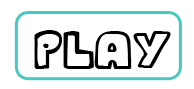
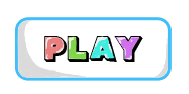
New play button, added score counter

diff --git a/game.js b/game.js
@@ -6,22 +6,17 @@ CLOUD_NUM = 6;
 SKY_BG_SPEED = 0.5;
 
 window.onload = function () {
-	
-
 
     //start crafty
     Crafty.init(STAGE_WIDTH, STAGE_HEIGHT);
-    //Crafty.canvas.init();
-    
-    
-    
+    //Crafty.canvas.init();    
     
     //LOADING SCENE
 	//the loading screen that will display while our assets load
 	Crafty.scene("loading", function () {
 		//load takes an array of assets and a callback when complete
 		Crafty.load(["imgs/bullet.png","imgs/cloud1.png",
-		"imgs/forky_ss.png", "imgs/burger_sheet.png", "imgs/main_title.png","imgs/play_button.png",
+		"imgs/forky_ss.png", "imgs/burger_sheet.png", "imgs/main_title.png","imgs/play_button.png", "imgs/play_button_on.png",
 		"imgs/fireball.png", "imgs/minifork.png", "imgs/bacon2.png", "imgs/peppermint.png",
 		"imgs/onion_ss.png", "imgs/egg_ss.png", "imgs/sky_bg.png"], function () {
 			Crafty.scene("title"); //when everything is loaded, run the main scene
@@ -45,6 +40,12 @@ window.onload = function () {
 		Crafty.e("2D, DOM, Image, Mouse").attr({ x: 0, y: 350, z:10 })
 					.image("imgs/play_button.png")
 					.css({ "cursor": "pointer" })
+					.bind('MouseOver', function() {
+						this.image("imgs/play_button_on.png");
+					})
+					.bind('MouseOut', function() {
+						this.image("imgs/play_button.png");
+					})
 					.bind('Click', function () {
 						Crafty.scene("main");
 					});
@@ -53,7 +54,7 @@ window.onload = function () {
 		generateClouds();
 					
 	});
-
+	
 	Crafty.sprite(76, 173, "imgs/forky_ss.png", {forkysprite:[0,0]});
 	Crafty.sprite(20, 80, "imgs/bacon2.png", {firebacon:[0,0]});
 	Crafty.sprite(120, "imgs/burger_sheet.png", {burg:[0,0]});
@@ -74,84 +75,96 @@ window.onload = function () {
 		
 		powerUpGen = Crafty.e("PowerupFactory, RealDelay");
 			powerUpGen.realDelay(spawnPowerup, Crafty.math.randomInt(1000,5000));
+			
+		gameScore = 0;
+		gameScoreTxt = 0;
+		scoreTxt = Crafty.e("Score, 2D, DOM, Text").attr({x: 10, y: STAGE_HEIGHT-50, w: 300, z:20})
+						.textFont({family: 'Impact', size: '24px'})
+						.textColor('#000000')
+						.bind("EnterFrame", function () {
+							if (gameScore > gameScoreTxt) {
+								if (gameScore - gameScoreTxt > 10)
+									gameScoreTxt += 10;
+								else 
+									gameScoreTxt += (gameScore - gameScoreTxt);
+								
+								this.text("Score: " + gameScoreTxt);
+							}
+						});
 	});
-	
-	
-	
-	/*****************
-		Helper functions
-	*****************/
-	function sky() {
-		Crafty.e("2D, DOM, Image")
-			.attr({x:0, y:0, z:0})
-			.image("imgs/sky_bg.png")
-			.bind("EnterFrame", function() {
-				this.y += SKY_BG_SPEED;
-				if (this.y > STAGE_HEIGHT)
-					this.y = -639;
-			});
-		Crafty.e("2D, DOM, Image")
-			.attr({x:0, y:-647, z:0})
-			.image("imgs/sky_bg.png")
-			.bind("EnterFrame", function() {
-				this.y += SKY_BG_SPEED;
-				if (this.y > STAGE_HEIGHT)
-					this.y = -639;
-			});
-	}
-	
-	function generateClouds() {
-		for (var cloud=0; cloud < CLOUD_NUM; cloud++) {		
-				Crafty.e("2D, DOM, Image")
-					.attr({ x: Crafty.math.randomInt(-50, STAGE_WIDTH+50), y: Crafty.math.randomInt(-300, -50), z: 2 })
-					.image("imgs/cloud1.png")
-					.bind('EnterFrame', function () {
-						this.y += 2;
-						if (this.y > STAGE_HEIGHT) {
-							this.y = Crafty.math.randomInt(-300, -50);
-							this.x = Crafty.math.randomInt(-50, STAGE_WIDTH+50);
-						}
-					});
-		}
-	}
-
-	function spawnSimpleEnemy() {
-		Crafty.e("Enemy, 2D, DOM, onion, SpriteAnimation, EnemyBase, SimpleEnemy")
-			.attr({ x: Crafty.math.randomInt(20, STAGE_WIDTH), y: -50, z: 2})		
-			.animate("idle", 0, 0, 4)
-			.animate("idle", 60, -1)
-			.setSpeed(1.5);
-			
-		Crafty.e("Enemy, 2D, DOM, egg, SpriteAnimation, EnemyBase, SimpleEnemy")
-			.attr({ x: Crafty.math.randomInt(20, STAGE_WIDTH), y: -50, z: 2})		
-			.animate("idle", 0, 0, 3)
-			.animate("idle", 60, -1)
-			.setSpeed(1.5);
-			
-			
-		simpleEnemyGen.realDelay(spawnSimpleEnemy, Crafty.math.randomInt(200, 3000));
-	}
-	
-	function spawnBurger() {
-		Crafty.e("Enemy, 2D, DOM, burg, SpriteAnimation, EnemyBase, RandomMover")
-			.attr({ x: Crafty.math.randomInt(20, STAGE_WIDTH), y: -100, z: 2})		
-			.animate("burger", 0, 0, 22)
-			.animate("burger", 60, -1);
-	}
-
-    function spawnPowerup() {
-    	Crafty.e("Powerup, 2D, DOM, peppermint, SpriteAnimation")
-    				.animate("spin", 0 , 0, 13)
-    				.animate("spin", 40, -1)
-    				.attr({ x: Crafty.math.randomInt(20, STAGE_WIDTH-20), y: -50, z: 2})
-    				.bind("EnterFrame", function () {
-    					this.y += 5;
-    					if (this.y > STAGE_HEIGHT)
-    						this.destroy();
-    				});
-    	powerUpGen.realDelay(spawnPowerup, Crafty.math.randomInt(1000,5000));
-    }
     
 };
 
+/*****************
+	Helper functions
+*****************/
+function sky() {
+	Crafty.e("2D, DOM, Image")
+		.attr({x:0, y:0, z:0})
+		.image("imgs/sky_bg.png")
+		.bind("EnterFrame", function() {
+			this.y += SKY_BG_SPEED;
+			if (this.y > STAGE_HEIGHT)
+				this.y = -639;
+		});
+	Crafty.e("2D, DOM, Image")
+		.attr({x:0, y:-647, z:0})
+		.image("imgs/sky_bg.png")
+		.bind("EnterFrame", function() {
+			this.y += SKY_BG_SPEED;
+			if (this.y > STAGE_HEIGHT)
+				this.y = -639;
+		});
+}
 
+function generateClouds() {
+	for (var cloud=0; cloud < CLOUD_NUM; cloud++) {		
+			Crafty.e("2D, DOM, Image")
+				.attr({ x: Crafty.math.randomInt(-50, STAGE_WIDTH+50), y: Crafty.math.randomInt(-300, -50), z: 2 })
+				.image("imgs/cloud1.png")
+				.bind('EnterFrame', function () {
+					this.y += 2;
+					if (this.y > STAGE_HEIGHT) {
+						this.y = Crafty.math.randomInt(-300, -50);
+						this.x = Crafty.math.randomInt(-50, STAGE_WIDTH+50);
+					}
+				});
+	}
+}
+
+function spawnSimpleEnemy() {
+	Crafty.e("Enemy, 2D, DOM, onion, SpriteAnimation, EnemyBase, SimpleEnemy")
+		.attr({ x: Crafty.math.randomInt(20, STAGE_WIDTH), y: -50, z: 2})		
+		.animate("idle", 0, 0, 4)
+		.animate("idle", 60, -1)
+		.setSpeed(1.5);
+		
+	Crafty.e("Enemy, 2D, DOM, egg, SpriteAnimation, EnemyBase, SimpleEnemy")
+		.attr({ x: Crafty.math.randomInt(20, STAGE_WIDTH), y: -50, z: 2})		
+		.animate("idle", 0, 0, 3)
+		.animate("idle", 60, -1)
+		.setSpeed(1.5);
+		
+		
+	simpleEnemyGen.realDelay(spawnSimpleEnemy, Crafty.math.randomInt(200, 3000));
+}
+
+function spawnBurger() {
+	Crafty.e("Enemy, 2D, DOM, burg, SpriteAnimation, EnemyBase, RandomMover")
+		.attr({ x: Crafty.math.randomInt(20, STAGE_WIDTH), y: -100, z: 2})		
+		.animate("burger", 0, 0, 22)
+		.animate("burger", 60, -1);
+}
+
+function spawnPowerup() {
+	Crafty.e("Powerup, 2D, DOM, peppermint, SpriteAnimation")
+				.animate("spin", 0 , 0, 13)
+				.animate("spin", 40, -1)
+				.attr({ x: Crafty.math.randomInt(20, STAGE_WIDTH-20), y: -50, z: 2})
+				.bind("EnterFrame", function () {
+					this.y += 5;
+					if (this.y > STAGE_HEIGHT)
+						this.destroy();
+				});
+	powerUpGen.realDelay(spawnPowerup, Crafty.math.randomInt(1000,5000));
+}

diff --git a/components.js b/components.js
@@ -78,6 +78,7 @@ Crafty.c("EnemyBase", {
 				this.health -= 50;
 				if (this.health < 0) {
 					this.destroy();
+					gameScore += 100;
 				}
 			});
 	}
